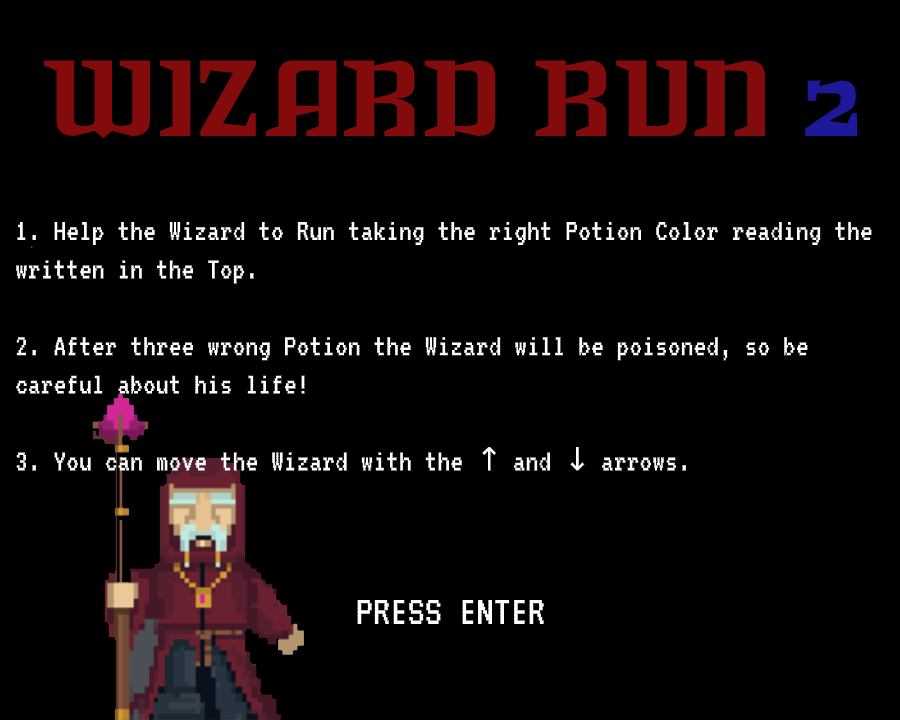
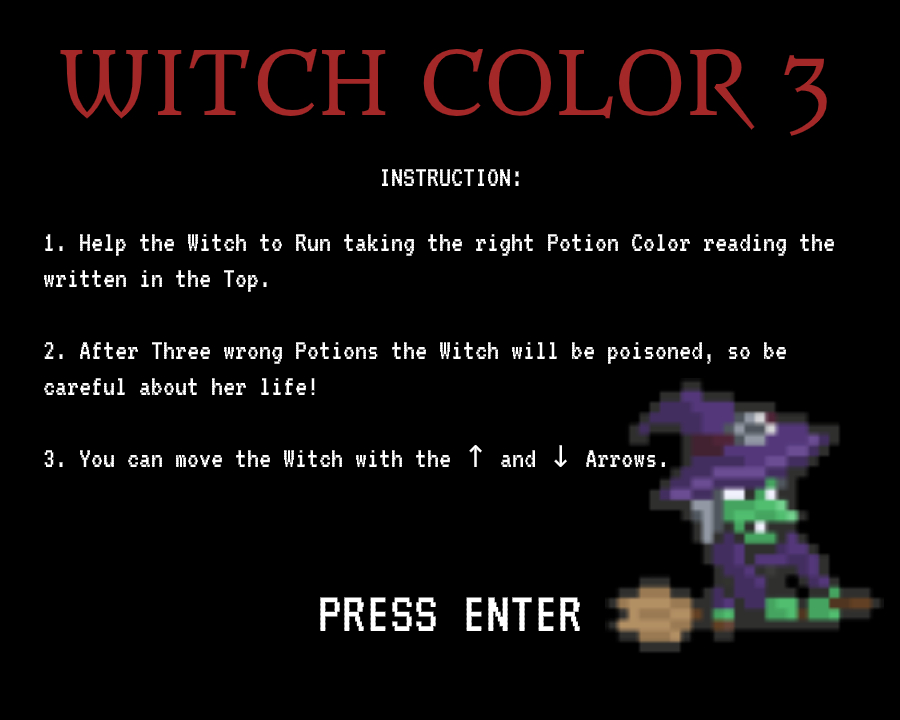
witch version

Changed region(s): [[0.0, 0.4583, 0.9956, 1.0], [0.0311, 0.0611, 0.9644, 0.275], [0.0, 0.3056, 0.9644, 0.3972]]

diff --git a/scripts/menu.js b/scripts/menu.js
@@ -3,14 +3,17 @@ class Menu {
    this.canvas = $canvas
    this.context = $canvas.getContext('2d')
    this.keyStroke()
+   this.audioElement = new Audio ()
+   this.audioElement.src = './sounds/musictheme.mp3'
+   
 }
 
 
-playMusicTheme(){
-  var snd = new Audio ("./sounds/musictheme.mp3"); // buffers automatically when created
-  snd.play();
-}
 
+
+playMusic(){
+    this.audioElement.play()
+}
 
 drawBackground(){
     const backgroundImageUrl = './images/menubackground.jpg';
@@ -19,7 +22,7 @@ drawBackground(){
 
     backgroundImage.addEventListener('load', () => {
     context.drawImage(backgroundImage, 0, 0)});
-}
+  }
 
 /*
 drawButton() {
@@ -33,9 +36,10 @@ drawButton() {
 */
 
 drawMenu() {
+  
   this.context.clearRect(0,0,900,720);
+  //this.playMusic()
   this.drawBackground();
-  this.playMusicTheme()
   //this.drawButton();
   console.log ('drawMenu')
 }

diff --git a/scripts/stain.js b/scripts/stain.js
@@ -91,20 +91,23 @@ class Stain {
       
       this.game.color.pickUpRandomText();
       this.increaseSpeed()
+      this.game.increaseBackgroundSpeed()
 
     }
   } 
 
   increaseSpeed(){
+    /*
     if (this.game.score.score >= 0 && this.game.score.score < 6) {
-      this.speed = 3
+      this.speed = 4
     } else if (this.game.score.score >= 7 && this.game.score.score < 14) {
-      this.speed = 5
+      this.speed = 6
     } else if (this.game.score.score >= 15 && this.game.score.score < 25){
-      this.speed = 8
-    } else if (this.game.score.score >= 26 && this.game.score.score < 30){
       this.speed = 10
-    }
+    } else if (this.game.score.score >= 26 && this.game.score.score < 30){
+      this.speed = 13
+    }*/
+    this.speed *= 1.05
     }
   
 

diff --git a/scripts/brush.js b/scripts/brush.js
@@ -27,7 +27,7 @@ class Brush {
   
   
   drawPlayer() {
-    const brushImageUrl = './images/magician.png';
+    const brushImageUrl = './images/witch.png';
     const brushImage = new Image();
     brushImage.src = brushImageUrl;
     this.game.context.drawImage(brushImage, this.positionX, (this.positionY * 80) + 240, this.width, this.height)

diff --git a/scripts/game.js b/scripts/game.js
@@ -8,7 +8,7 @@ class Game {
     this.score = new Score(this);
     this.gameIsRunning = false;
     this.x = 0
-    this.speed = this.stain.speed
+    this.speed = 3
     
   }
 
@@ -67,6 +67,10 @@ paint = () => {
     if (1592) {
       this.x = this.x % 1592;
     }
+  }
+
+  increaseBackgroundSpeed(){
+    this.speed *= 1.05
   }
 
 

diff --git a/scripts/main.js b/scripts/main.js
@@ -7,6 +7,7 @@ const height = $canvas.height;
 const menu = new Menu($canvas)
 menu.drawMenu()
 
+
   /*
 $canvas.addEventListener("click", event => {
   console.log("click event",event)
